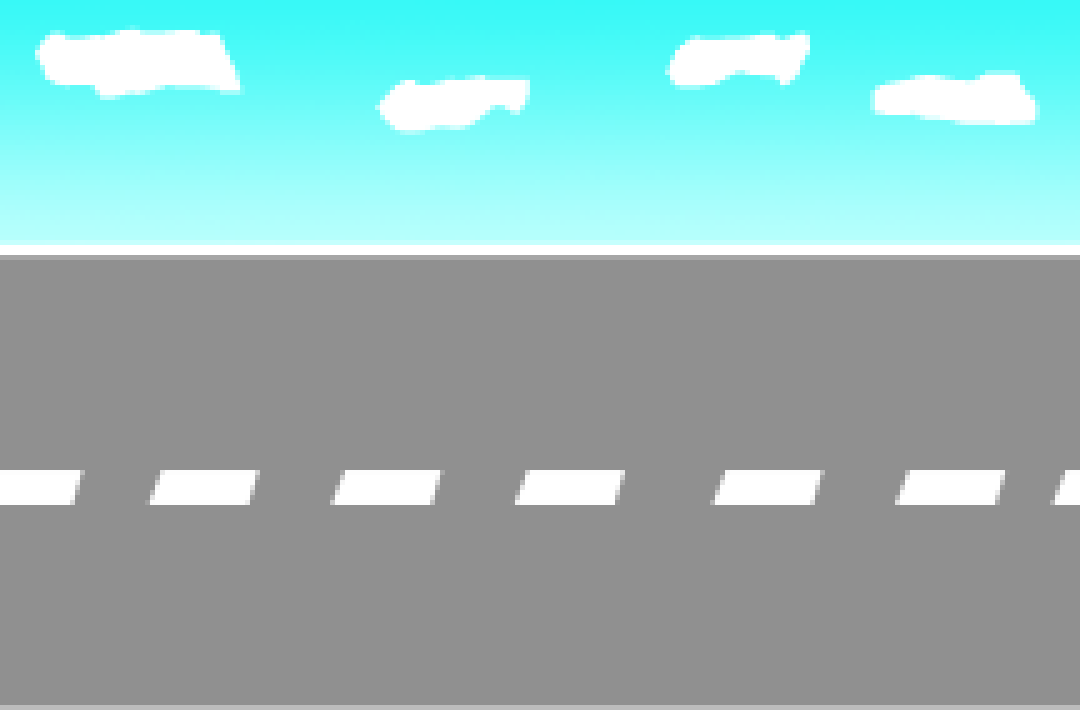
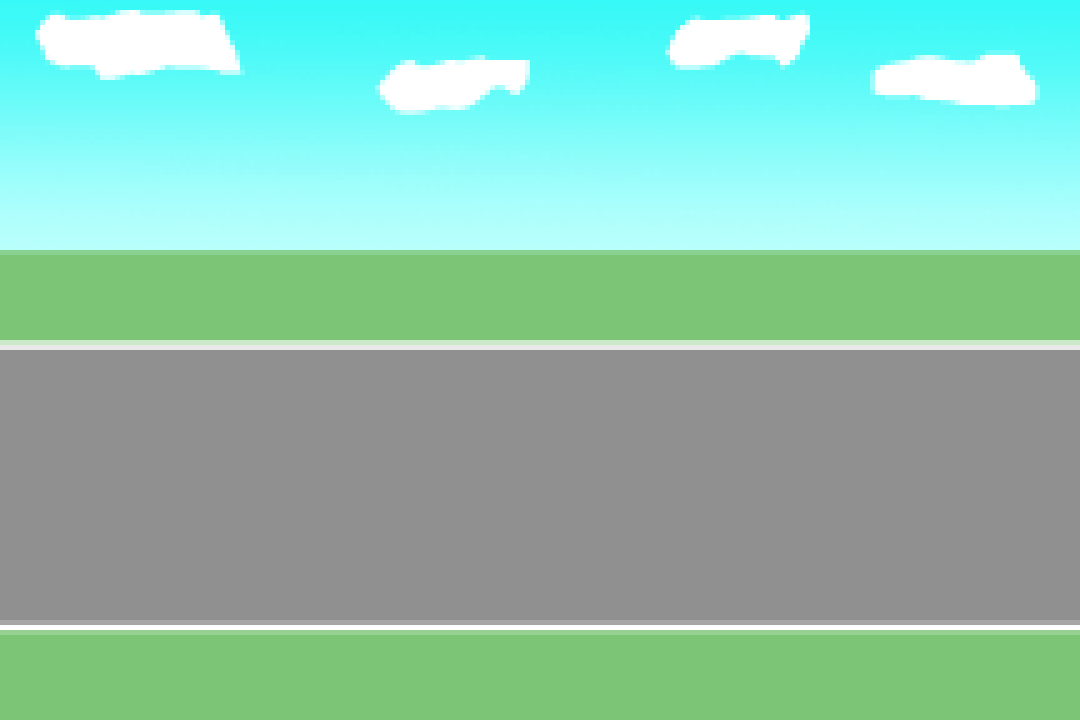
Updates

diff --git a/script.js b/script.js
@@ -6,6 +6,8 @@ var timeElement = document.getElementById("time");
 document.addEventListener("keydown", keyDownHandler, false);
 document.addEventListener("keyup", keyUpHandler, false);
 
+var palmTree = document.getElementById("palm-tree");
+
 const START_TIME = new Date();
 var upPressed = false;
 var downPressed = false;
@@ -14,17 +16,28 @@ var points = 500;
 var gameOver = false;
 
 var spriteX = 20;
-var spriteY = 40;
+var spriteY = 490;
 var sprite = new Sprite(spriteX, spriteY);
 
-var enemyCount = 10;
+var enemyCount = 6;
 var enemies = [];
 addEnemies(enemyCount);
+
+var sceneries = [
+  new Scenery(canvas.width - 600, 190, 50, 70, palmTree),
+  new Scenery(canvas.width, 190, 50, 70, palmTree),
+];
 
 function draw() {
   if (!gameOver) {
     updateTime();
-    
+
+    sceneries.forEach((scenery) => {
+      scenery.clear();
+      scenery.move();
+      scenery.draw();
+    });
+
     enemies.forEach((enemy, idx) => {
       checkEnemyCollision(enemy);
 
@@ -42,10 +55,15 @@ function draw() {
     checkGameOver();
   }
 }
+
+function moveScenery() {
+  roadMarking.x -= 5;
+}
+
 function updateTime() {
   var currentTime = new Date();
   var secondsSinceStart = (currentTime.getTime() - START_TIME.getTime()) / 1000;
-  timeElement.innerText =  "Time: " + secondsSinceStart + "s";
+  timeElement.innerText = "Time: " + secondsSinceStart + "s";
 }
 
 function updateScore() {
@@ -103,7 +121,7 @@ function getRandomIntInclusive(min, max) {
 function addEnemies(enemyCount) {
   for (let i = 0; i < enemyCount; i++) {
     enemies.push(
-      new Enemy(canvas.width, getRandomIntInclusive(0, canvas.height))
+      new Enemy(canvas.width, getRandomIntInclusive(225, canvas.height))
     );
   }
 }

diff --git a/scenery.js b/scenery.js
@@ -1,28 +1,19 @@
-class Enemy {
-  dx;
-  image = document.getElementById("enemy");
+class Scenery {
+  dx = 3;
 
-  constructor(x, y) {
+  constructor(x, y, width, height, image) {
     this.x = x;
     this.y = y;
-    this.width = 20;
-    this.height = 20;
-    this.inContact = false;
-
-    this.newSpeed();
+    this.width = width;
+    this.height = height;
+    this.image = image;
   }
-
-  getSpeed = () => getRandomIntInclusive(4, 7);
-
-  newSpeed = () => (this.dx = this.getSpeed());
 
   clear = () => ctx.clearRect(this.x, this.y, this.width, this.height);
 
   reset = () => {
     this.clear();
     this.x = canvas.width;
-    this.y = getRandomIntInclusive(225, canvas.height);
-    this.newSpeed();
   };
 
   move = () => {

diff --git a/index.html b/index.html
@@ -10,7 +10,7 @@
         margin: 0;
       }
       canvas {
-        background: #eee;
+        background-image: url('images/background.png');
         display: block;
         margin: 0 auto;
       }
@@ -40,10 +40,13 @@
     <canvas id="gameCanvas" width="1080" height="720"></canvas>
 
     <img id="explorer" src="images/explorer.png"/>
-    <img id="background" src="images/background.png"/>
+    <img id="enemy" src="images/covid.png"/>
+    <img id="road-marking" src="images/road-marking.png"/>
+    <img id="palm-tree" src="images/palm-tree.png"/>
 
     <script src="sprite.js"></script>
     <script src="enemy.js"></script>
+    <script src="scenery.js"></script>
     <script src="script.js"></script>
   </body>
 </html>

diff --git a/sprite.js b/sprite.js
@@ -19,8 +19,8 @@ class Sprite {
       }
     } else if (upPressed) {
       this.y -= this.dy;
-      if (this.y < 0) {
-        this.y = 0;
+      if (this.y < 225) {
+        this.y = 225;
       }
     }
   };
